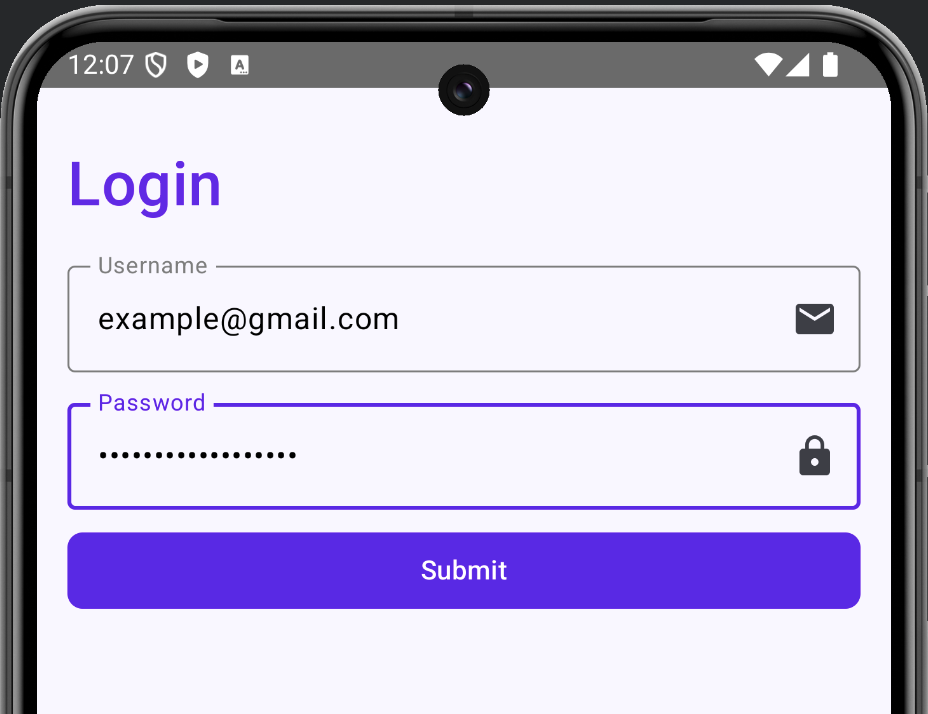
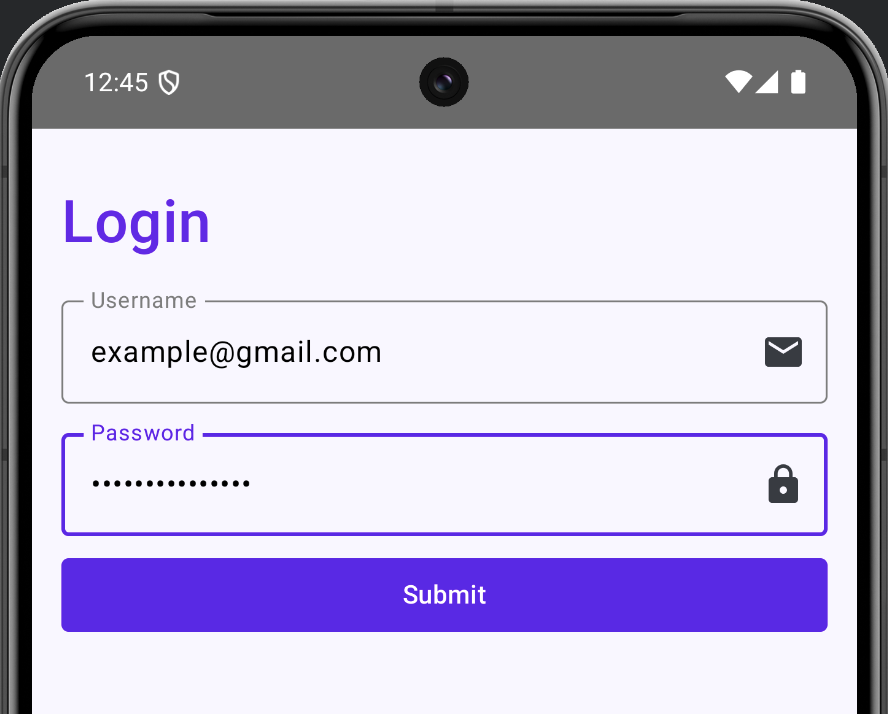
README kuva vaihdettu

Changed region(s): [[0.0, 0.0, 1.0, 1.0]]

diff --git a/app/src/main/java/com/example/login_form/MainActivity.kt b/app/src/main/java/com/example/login_form/MainActivity.kt
@@ -38,8 +38,23 @@ import androidx.compose.ui.unit.dp
 import androidx.compose.ui.unit.sp
 import com.example.login_form.ui.theme.Login_formTheme
 
-val PrimaryColor = Color(0xFF6F00EE)
+val primaryColor = Color(0xFF6F00EE)
 val unfocusedColor = Color.Gray
+
+@Composable
+fun customTextFieldColors() = OutlinedTextFieldDefaults.colors(
+    focusedTextColor = Color.Black,
+    unfocusedTextColor = Color.Black,
+    focusedContainerColor = Color.Transparent,
+    unfocusedContainerColor = Color.Transparent,
+    disabledContainerColor = Color.Transparent,
+    errorContainerColor = Color.Transparent,
+    cursorColor = primaryColor,
+    focusedBorderColor = primaryColor,
+    unfocusedBorderColor = unfocusedColor,
+    focusedLabelColor = primaryColor,
+    unfocusedLabelColor = unfocusedColor
+)
 
 class MainActivity : ComponentActivity() {
     override fun onCreate(savedInstanceState: Bundle?) {
@@ -86,19 +101,7 @@ fun Login_form(modifier: Modifier = Modifier) {
             keyboardOptions = KeyboardOptions(keyboardType = KeyboardType.Email),
             trailingIcon = { Icon(Icons.Filled.Email, contentDescription = "Email") },
             modifier = Modifier.fillMaxWidth(),
-            colors = OutlinedTextFieldDefaults.colors(
-                focusedTextColor = Color.Black,
-                unfocusedTextColor = Color.Black,
-                focusedContainerColor = Color.Transparent,
-                unfocusedContainerColor = Color.Transparent,
-                disabledContainerColor = Color.Transparent,
-                errorContainerColor = Color.Transparent,
-                cursorColor = PrimaryColor,
-                focusedBorderColor = PrimaryColor,
-                unfocusedBorderColor = unfocusedColor,
-                focusedLabelColor = PrimaryColor,
-                unfocusedLabelColor = unfocusedColor,
-            )
+            colors = customTextFieldColors()
         )
 
         Spacer(modifier = Modifier.padding(4.dp))
@@ -111,30 +114,18 @@ fun Login_form(modifier: Modifier = Modifier) {
             keyboardOptions = KeyboardOptions(keyboardType = KeyboardType.Password),
             trailingIcon = { Icon(Icons.Filled.Lock, contentDescription = "Password") },
             modifier = Modifier.fillMaxWidth(),
-            colors = OutlinedTextFieldDefaults.colors(
-                focusedTextColor = Color.Black,
-                unfocusedTextColor = Color.Black,
-                focusedContainerColor = Color.Transparent,
-                unfocusedContainerColor = Color.Transparent,
-                disabledContainerColor = Color.Transparent,
-                errorContainerColor = Color.Transparent,
-                cursorColor = PrimaryColor,
-                focusedBorderColor = PrimaryColor,
-                unfocusedBorderColor = unfocusedColor,
-                focusedLabelColor = PrimaryColor,
-                unfocusedLabelColor = unfocusedColor,
-            )
+            colors = customTextFieldColors()
         )
         Button(
             onClick = { },
             colors = ButtonDefaults.buttonColors(
-                containerColor = PrimaryColor,
+                containerColor = primaryColor,
                 contentColor = Color.White
             ),
             modifier = modifier
                 .fillMaxWidth()
                 .padding(top = 8.dp),
-            shape = MaterialTheme.shapes.small
+            shape = MaterialTheme.shapes.extraSmall
         ) {
             Text(text = "Submit")
         }
